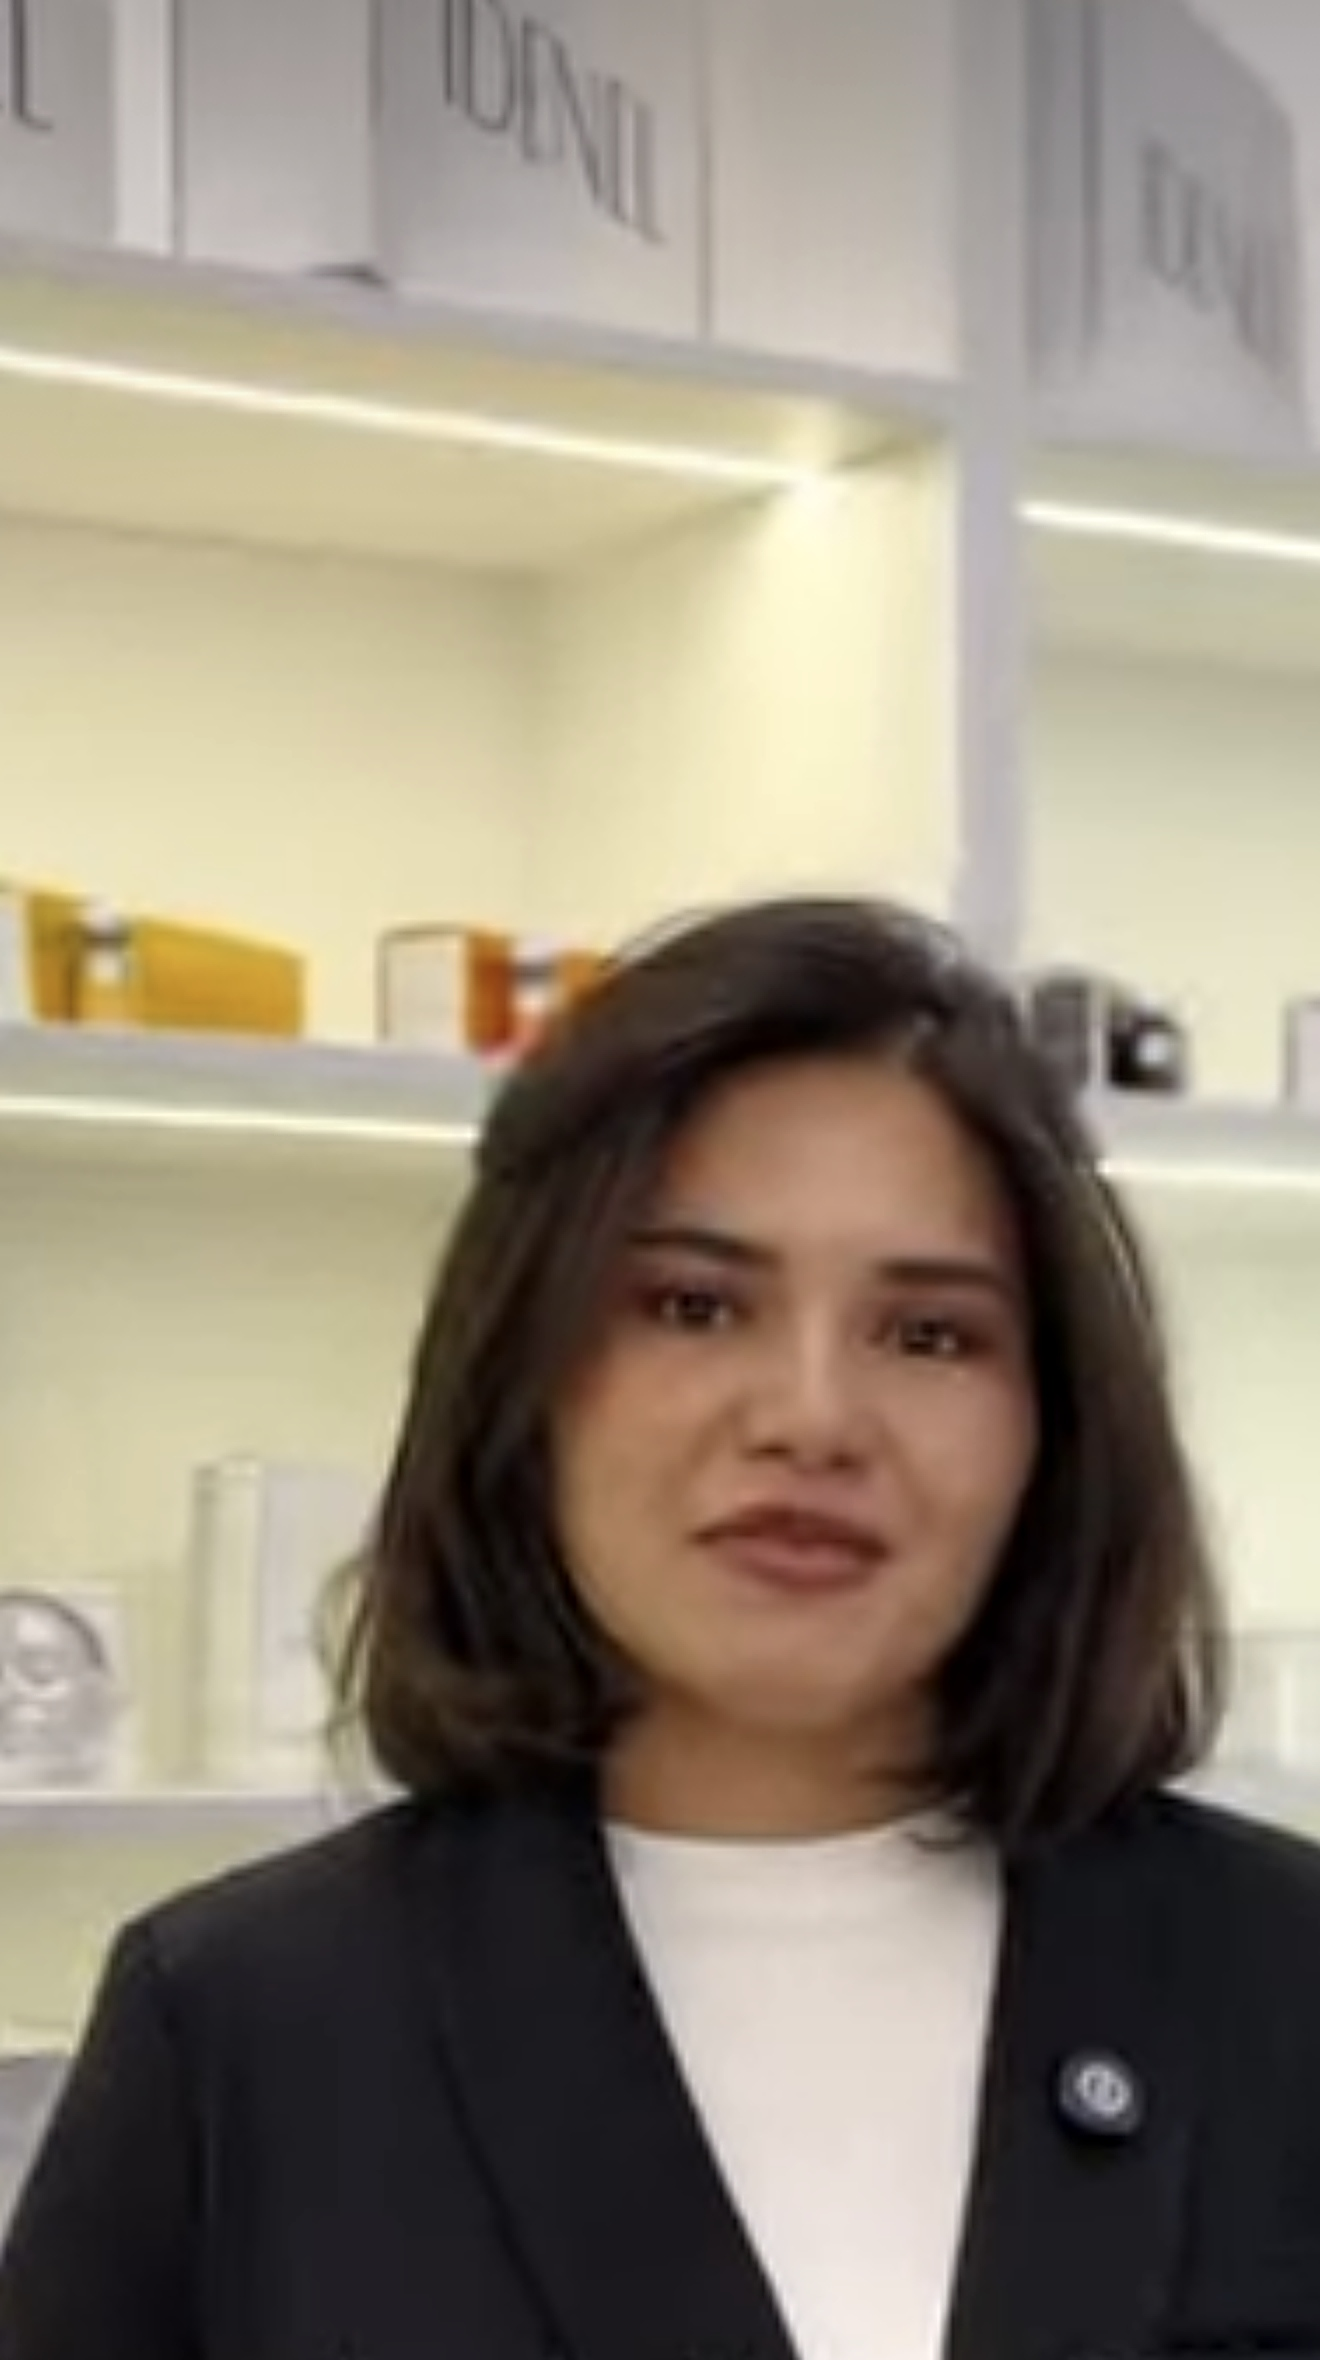
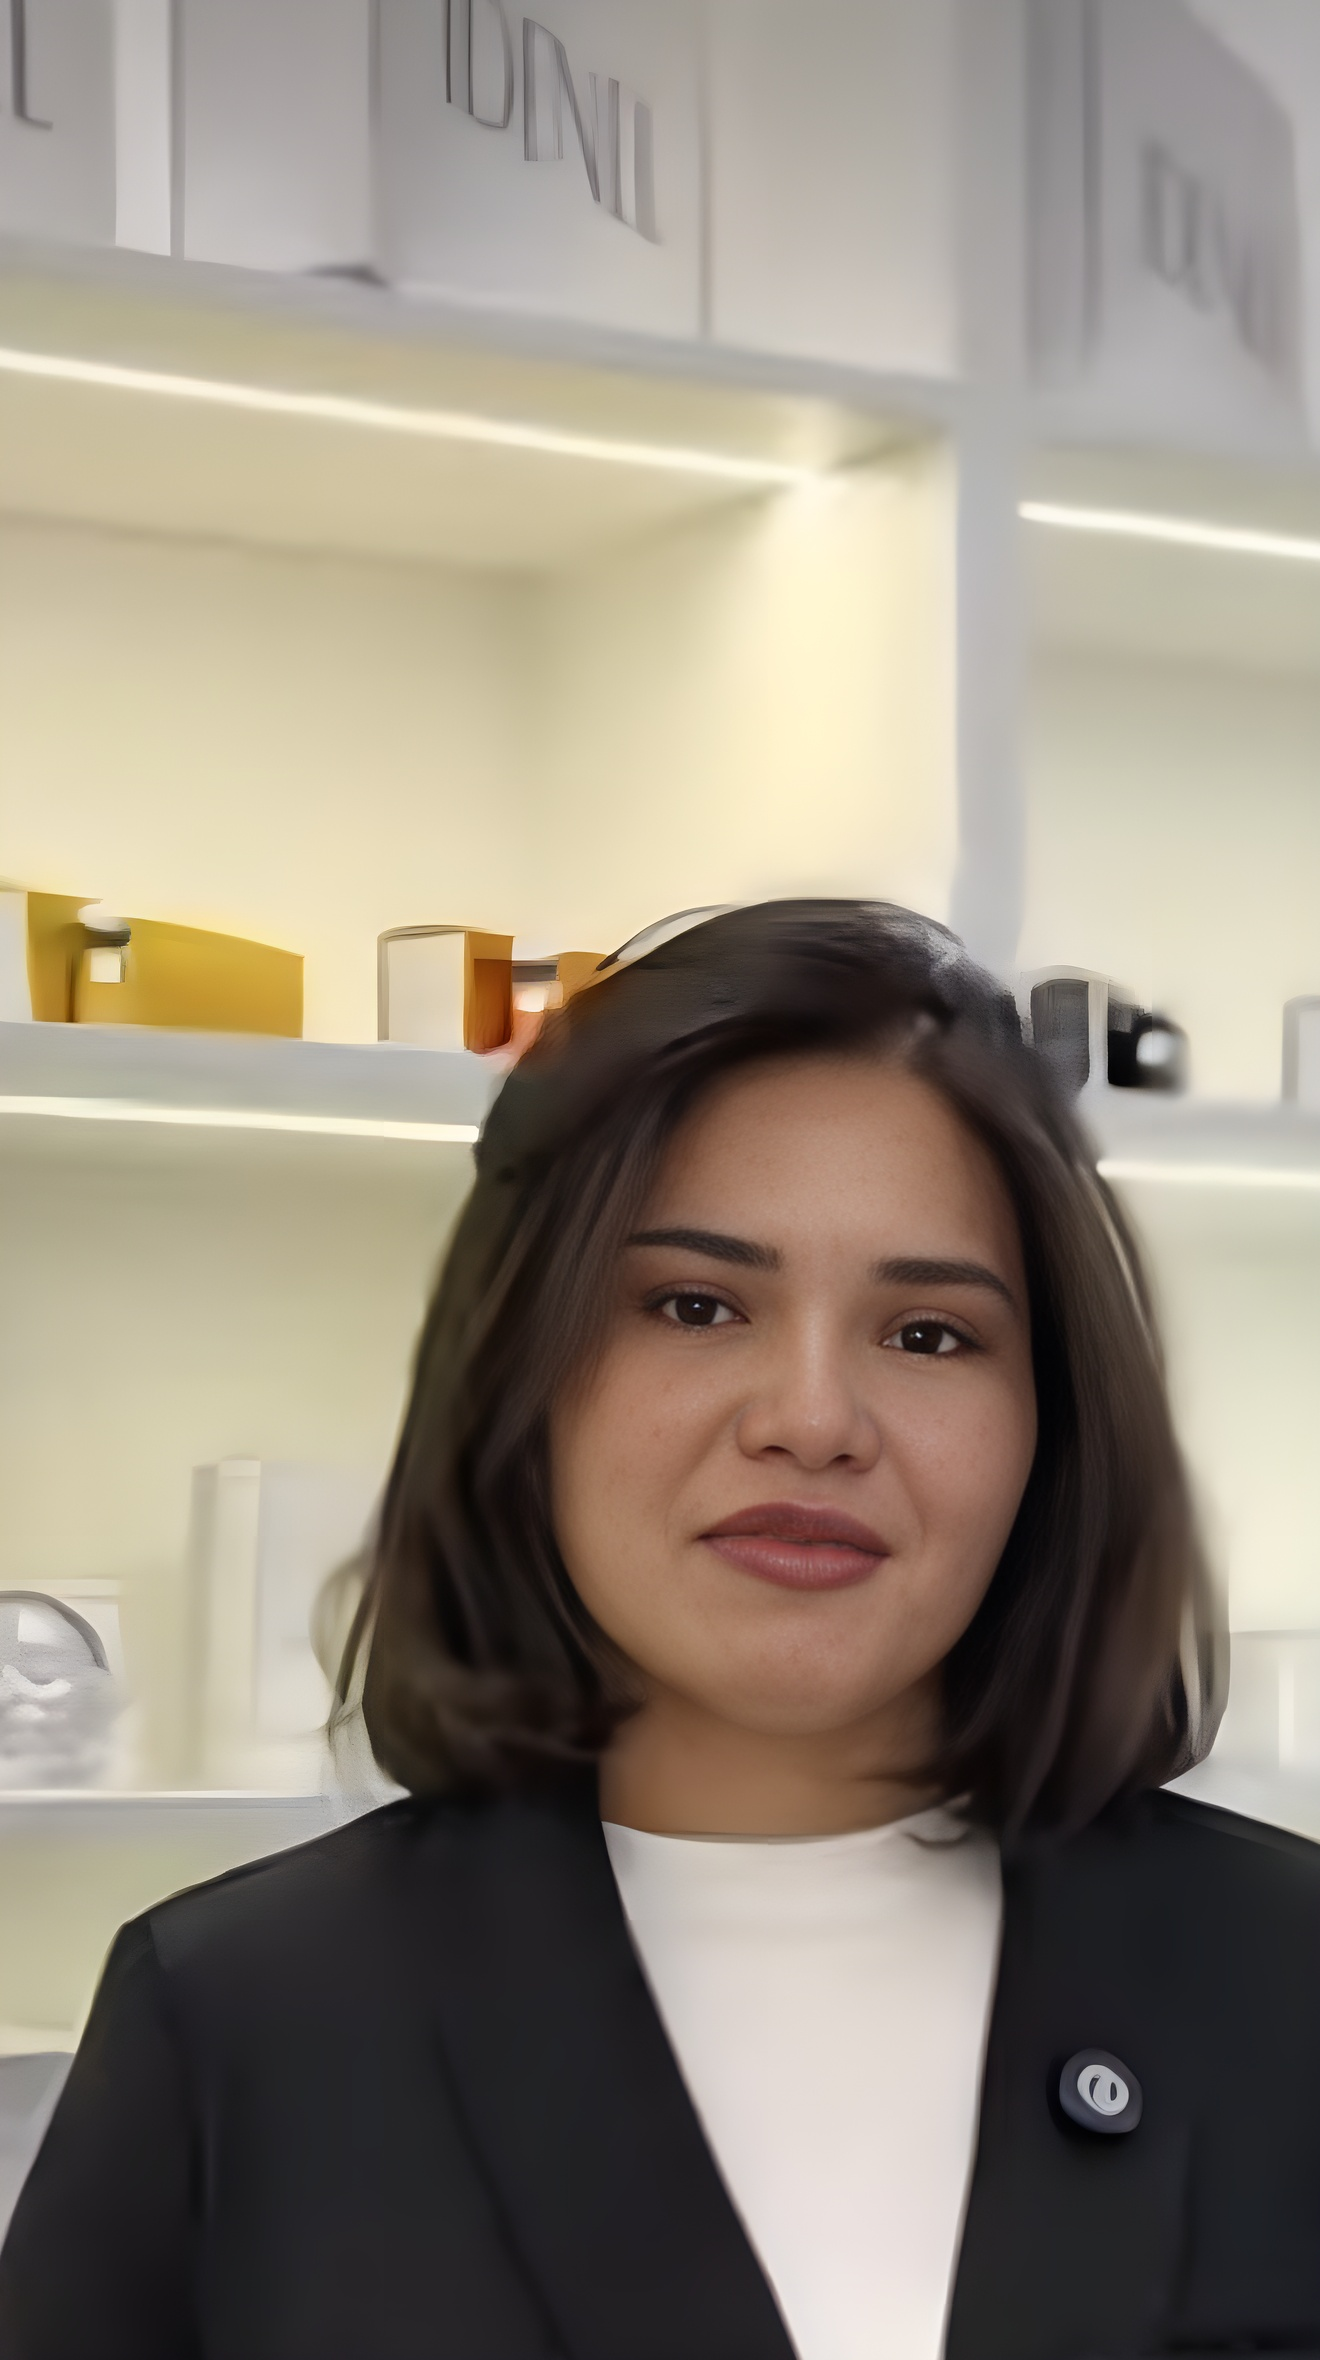
Restore presenter face photo; configurable video scene durations
Claude-Session: https://claude.ai/code/session_019zeLhuZrvyu55ev7DFEb9D

diff --git a/idenel-carousel/video.html b/idenel-carousel/video.html
@@ -107,11 +107,13 @@ const V = [
   `<div class="plinth"></div>${P("mist",170,440,.25)}${P("cc",300,480,.4)}${P("eyecream",470,500,.55)}${P("tube",570,470,.7)}${P("jar_repair",680,180,.85)}`,
   `<img class="photo" src="assets/photo-certificate.jpg" style="object-position:50% 96%">`,
 ];
-const SCENE = 3, CTA = 5;           // seconds per topic scene, CTA hold
+// seconds per scene (5 topic scenes + CTA); override with ?d=3,3,3,3,3,5 to fit a voiceover
+const DUR = (new URLSearchParams(location.search).get("d") || "3,3,3,3,3,5").split(",").map(Number);
+const START = DUR.map((_, i) => DUR.slice(0, i).reduce((a, b) => a + b, 0));
 const lang = new URLSearchParams(location.search).get("lang") || "uz";
 const L = T[lang], st = document.getElementById("stage");
 L.s.forEach((s, i) => st.insertAdjacentHTML("beforeend", `
-  <section class="scene" style="--s:${i*SCENE}s;--d:${SCENE}s">
+  <section class="scene" style="--s:${START[i]}s;--d:${DUR[i]}s">
     <div class="box">${V[i]}</div>
     <div class="txt">
       <div class="eyebrow up" style="--o:.25s">${s.e}</div>
@@ -119,9 +121,9 @@ L.s.forEach((s, i) => st.insertAdjacentHTML("beforeend", `
       ${s.sub ? `<p class="sub up" style="--o:.6s">${s.sub}</p>` : ""}
     </div>
   </section>`));
-const cs = L.s.length * SCENE;
+const cs = START[5];
 st.insertAdjacentHTML("beforeend", `
-  <section class="scene last cta" style="--s:${cs}s;--d:${CTA}s">
+  <section class="scene last cta" style="--s:${cs}s;--d:${DUR[5]}s">
     <div class="bigdate">
       <div class="d up" style="--o:.1s">31</div>
       <div class="m up" style="--o:.3s">${L.month.toUpperCase()}</div>
@@ -133,7 +135,9 @@ st.insertAdjacentHTML("beforeend", `
     <div class="btnw up" style="--o:1s"><div class="btn">${L.btn}
       <svg width="40" height="22" viewBox="0 0 40 22" fill="none" stroke="#fff" stroke-width="3" stroke-linecap="round" stroke-linejoin="round"><path d="M2 11 H36"/><path d="M27 2 L36 11 L27 20"/></svg></div></div>
   </section>`);
-window.DURATION = cs + CTA;
+window.DURATION = cs + DUR[5];
+// progress bar spans the five topic scenes
+st.querySelectorAll(".bar, .bar i").forEach(e => e.style.animationDuration = cs + "s");
 </script>
 </body>
 </html>

diff --git a/idenel-carousel/render-video.js b/idenel-carousel/render-video.js
@@ -8,7 +8,7 @@ const FPS = 30;
   for (const lang of langs) {
     const tmp = path.join(__dirname, 'export', 'video', `frames-${lang}`); fs.mkdirSync(tmp, { recursive: true });
     const p = await b.newPage({ viewport: { width: 1080, height: 1920 } });
-    await p.goto('file://' + path.join(__dirname, 'video.html') + '?lang=' + lang, { waitUntil: 'networkidle' });
+    await p.goto('file://' + path.join(__dirname, 'video.html') + '?lang=' + lang + (process.env.DUR ? '&d=' + process.env.DUR : ''), { waitUntil: 'networkidle' });
     await p.evaluate(() => document.fonts.ready);
     const dur = await p.evaluate(() => window.DURATION);
     const stage = await p.$('#stage');
